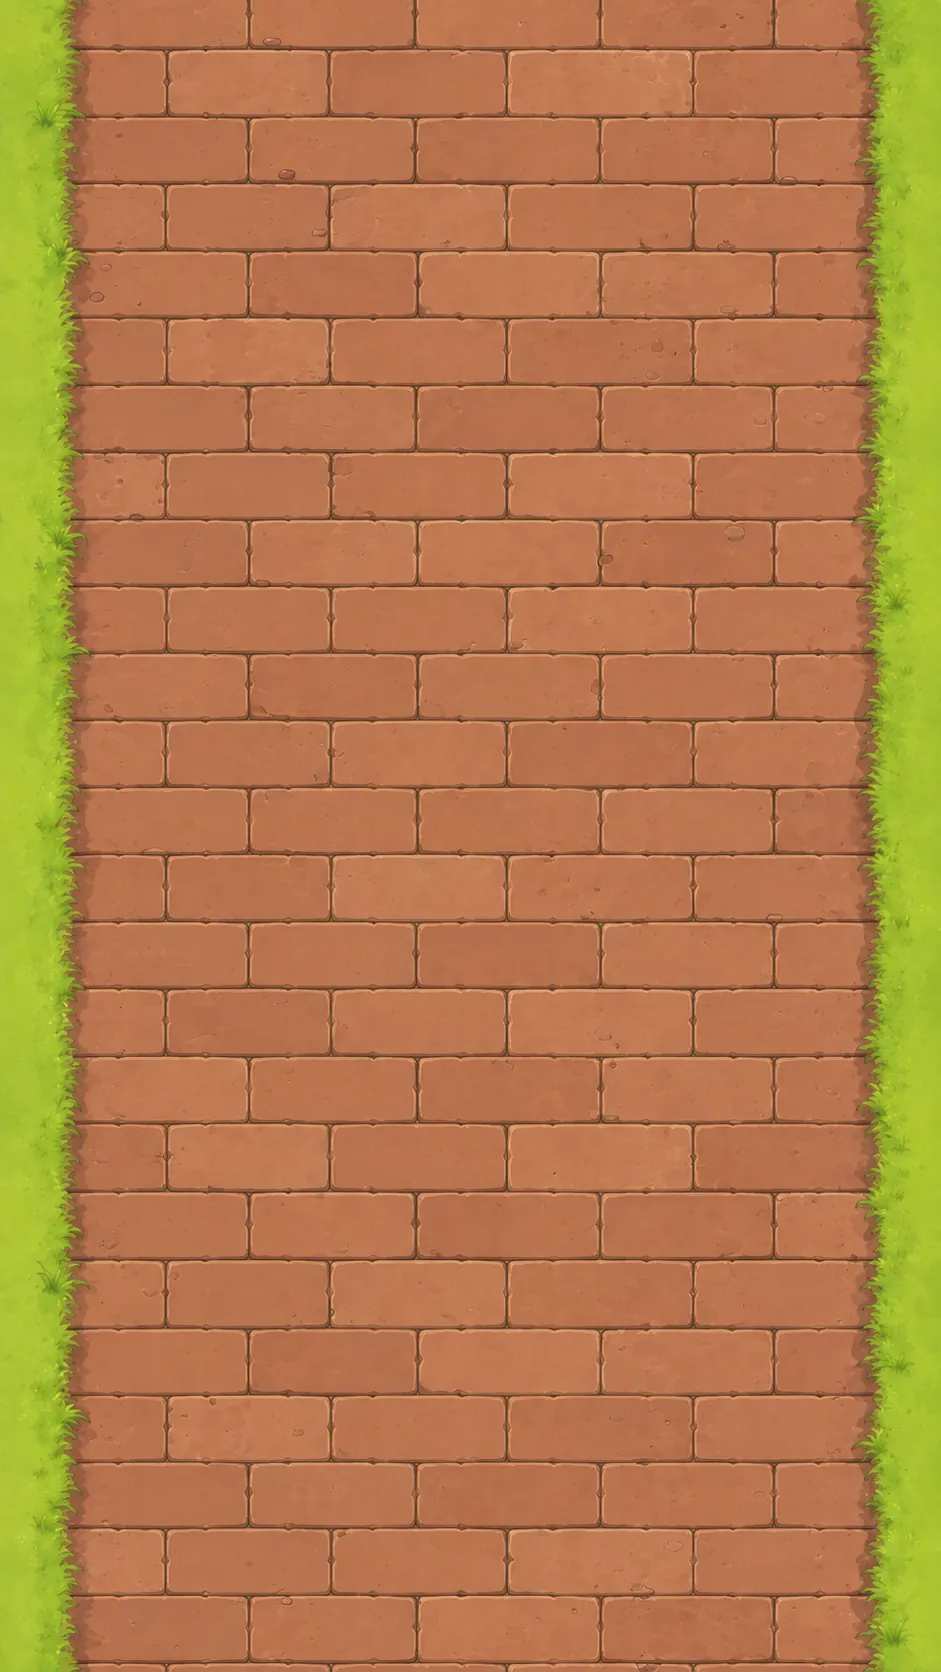
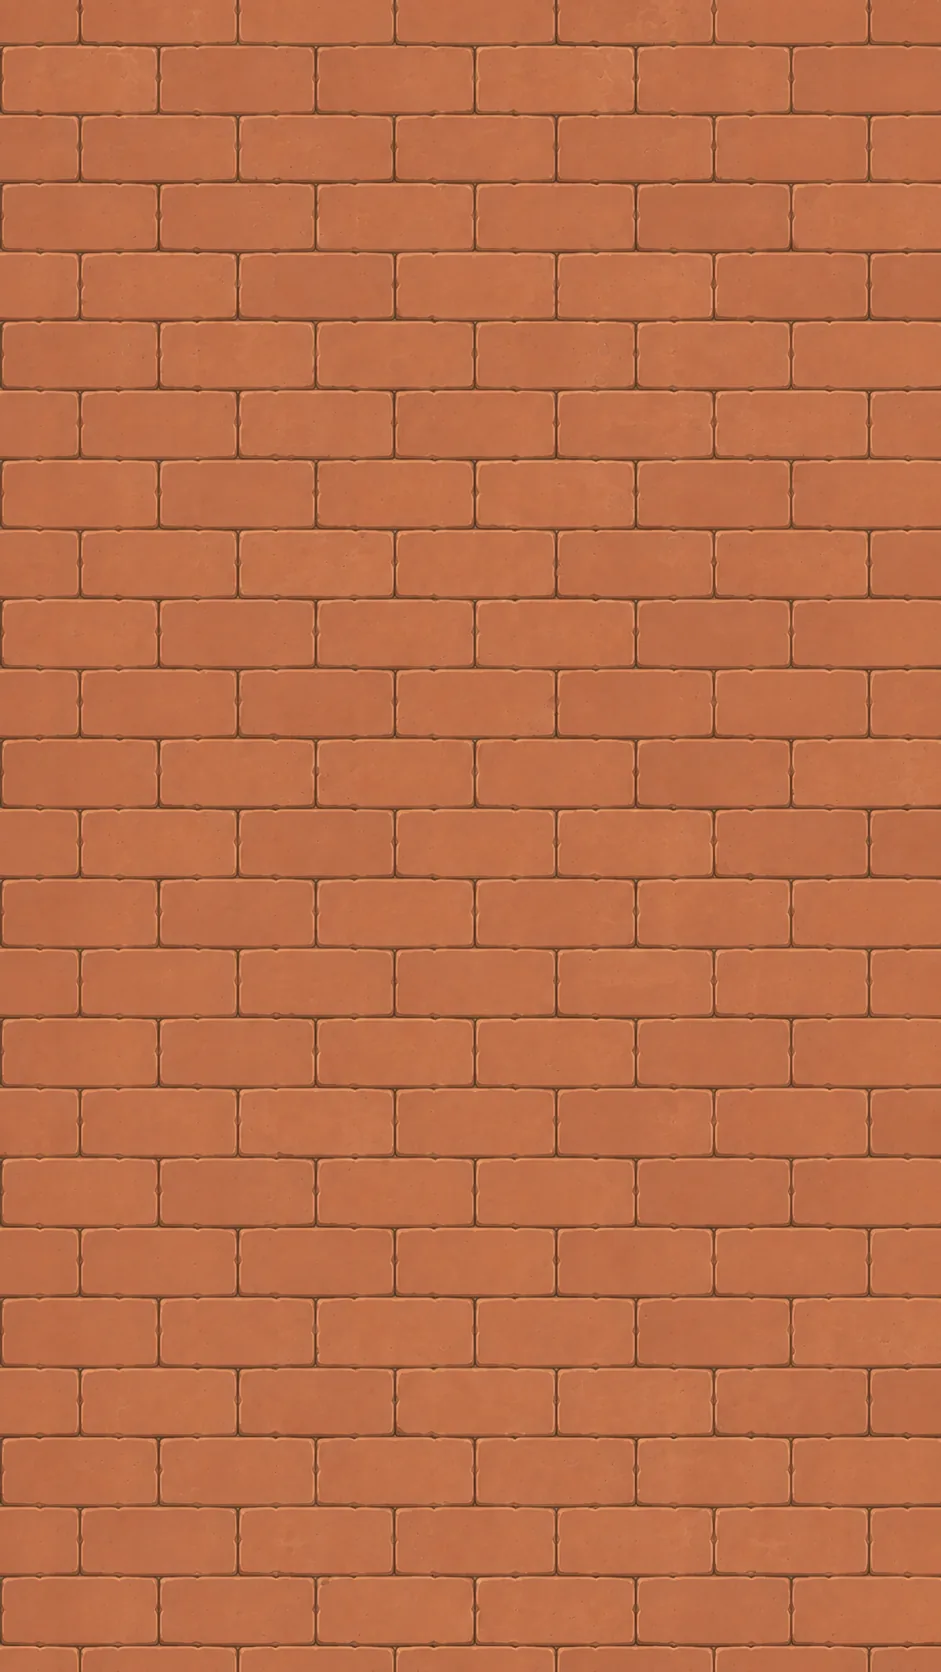
Update route and progress visuals

diff --git a/index.html b/index.html
@@ -254,9 +254,9 @@
     .road-wrap {
       position: absolute;
       left: 50%;
-      bottom: -16svh;
+      bottom: -10svh;
       width: min(980px, 118vw);
-      height: 122svh;
+      height: 150svh;
       transform: translateX(-50%) perspective(900px) rotateX(58deg);
       transform-origin: bottom center;
       overflow: hidden;
@@ -267,8 +267,11 @@
 
     .road {
       position: absolute;
-      inset: -30% 0;
-      background: url("https://cdn.jsdelivr.net/gh/machenggong593-dev/zhangwentian@gh-pages/assets/roads/dirt.webp") center top / cover repeat-y;
+      inset: -105% 0;
+      background-image: url("https://cdn.jsdelivr.net/gh/machenggong593-dev/zhangwentian@gh-pages/assets/roads/dirt.webp");
+      background-position: center top;
+      background-size: var(--road-size, cover);
+      background-repeat: var(--road-repeat, repeat-y);
       transform: translateY(var(--road-y, 0));
       filter: saturate(0.95) contrast(0.96);
     }
@@ -319,7 +322,7 @@
     .character {
       position: absolute;
       left: 50%;
-      bottom: 7svh;
+      bottom: 10svh;
       width: clamp(92px, 18vw, 176px);
       transform: translateX(-50%);
       z-index: 5;
@@ -404,7 +407,7 @@
     .progress {
       position: absolute;
       right: clamp(16px, 4vw, 56px);
-      top: 50%;
+      top: 46%;
       display: grid;
       gap: 14px;
       transform: translateY(-50%);
@@ -443,20 +446,28 @@
     .timeline {
       position: absolute;
       left: 50%;
-      bottom: 3.4svh;
-      width: min(600px, 74vw);
-      height: 3px;
-      background: rgba(81, 59, 36, 0.18);
+      bottom: 1.6svh;
+      width: min(498px, 74vw);
+      height: 9px;
+      background: url("assets/progress/timeline-empty.png") center / 100% 100% no-repeat;
       transform: translateX(-50%);
       border-radius: 999px;
       z-index: 4;
+      overflow: hidden;
     }
 
     .timeline-fill {
       width: calc(var(--progress, 0) * 100%);
       height: 100%;
-      border-radius: inherit;
-      background: linear-gradient(90deg, var(--red), var(--gold), var(--green));
+      overflow: hidden;
+    }
+
+    .timeline-fill::before {
+      content: "";
+      display: block;
+      width: min(498px, 74vw);
+      height: 100%;
+      background: url("assets/progress/timeline-complete.png") left center / 100% 100% no-repeat;
     }
 
     .end {
@@ -685,14 +696,14 @@
       }
 
       .character {
-        bottom: 7.5svh;
+        bottom: 10.5svh;
         width: clamp(92px, 29vw, 132px);
       }
 
       .progress {
         top: auto;
         right: 18px;
-        bottom: 18px;
+        bottom: 34px;
         transform: none;
         grid-auto-flow: column;
       }
@@ -703,7 +714,7 @@
       }
 
       .timeline {
-        bottom: 2svh;
+        bottom: 1svh;
       }
 
       .ai-lab {
@@ -904,7 +915,7 @@
       image.src = src;
     }
 
-    chapters.forEach((chapter, index) => {
+    chapters.forEach((chapter) => {
       const img = document.createElement("img");
       img.dataset.src = asset(chapter.scene);
       img.alt = "";
@@ -913,13 +924,23 @@
       if (chapter.wide) img.classList.add("is-wide");
       if (chapter.sceneClass) img.classList.add(chapter.sceneClass);
       scenery.appendChild(img);
+    });
 
+    const progressStops = [
+      { chapterIndex: 0 },
+      { chapterIndex: 1 },
+      { chapterIndex: 3 },
+      { chapterIndex: 4 }
+    ];
+
+    progressStops.forEach((stop) => {
+      const chapter = chapters[stop.chapterIndex];
       const dot = document.createElement("button");
       dot.className = "dot";
       dot.type = "button";
       dot.setAttribute("aria-label", chapter.title);
       dot.addEventListener("click", () => {
-        const top = journey.offsetTop + (journey.offsetHeight - window.innerHeight) * (index / (chapters.length - 1));
+        const top = journey.offsetTop + (journey.offsetHeight - window.innerHeight) * (stop.chapterIndex / (chapters.length - 1));
         window.scrollTo({ top, behavior: "smooth" });
       });
       dots.appendChild(dot);
@@ -1008,6 +1029,13 @@
       return Math.min(max, Math.max(min, value));
     }
 
+    function getProgressDotIndex(chapterIndex) {
+      if (chapterIndex <= 0) return 0;
+      if (chapterIndex <= 2) return 1;
+      if (chapterIndex === 3) return 2;
+      return 3;
+    }
+
     function setChapter(index) {
       if (index === activeIndex) return;
       activeIndex = index;
@@ -1021,7 +1049,8 @@
       loadChapterAssets(index);
       warmNextChapter(index);
       sceneImages.forEach((img, i) => img.classList.toggle("active", i === index));
-      dotButtons.forEach((dot, i) => dot.classList.toggle("active", i === index));
+      const activeDotIndex = getProgressDotIndex(index);
+      dotButtons.forEach((dot, i) => dot.classList.toggle("active", i === activeDotIndex));
     }
 
     function update() {
@@ -1044,6 +1073,16 @@
       if (nextRoadSrc !== currentRoadSrc) {
         currentRoadSrc = nextRoadSrc;
         road.style.backgroundImage = `url("${nextRoadSrc}")`;
+      }
+      if (chapter.road.includes("stone")) {
+        road.style.setProperty("--road-size", "clamp(300px, 44vw, 460px) auto");
+        road.style.setProperty("--road-repeat", "repeat");
+      } else if (chapter.road.includes("brick")) {
+        road.style.setProperty("--road-size", "clamp(240px, 36vw, 380px) auto");
+        road.style.setProperty("--road-repeat", "repeat");
+      } else {
+        road.style.setProperty("--road-size", "cover");
+        road.style.setProperty("--road-repeat", "repeat-y");
       }
       road.style.setProperty("--road-y", `${-progress * 42}%`);
       timelineFill.style.setProperty("--progress", progress);
